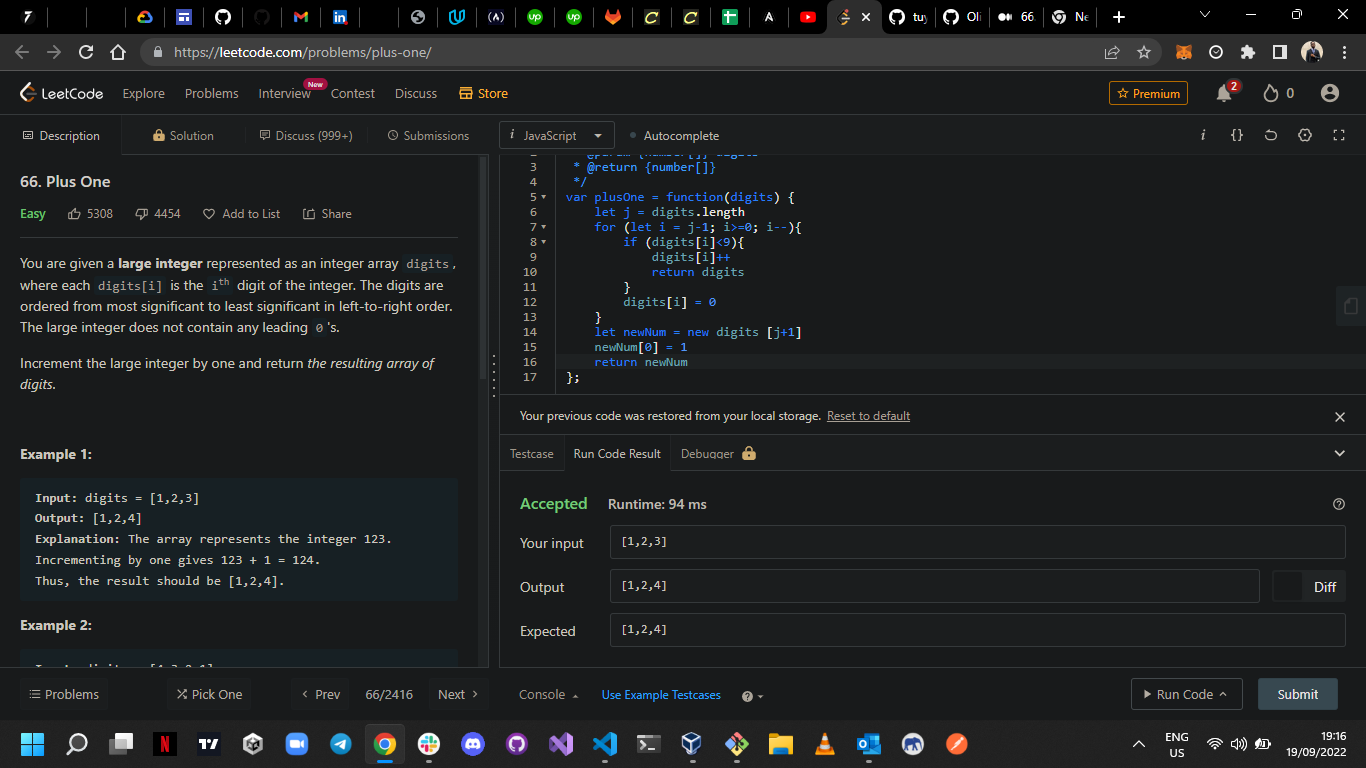
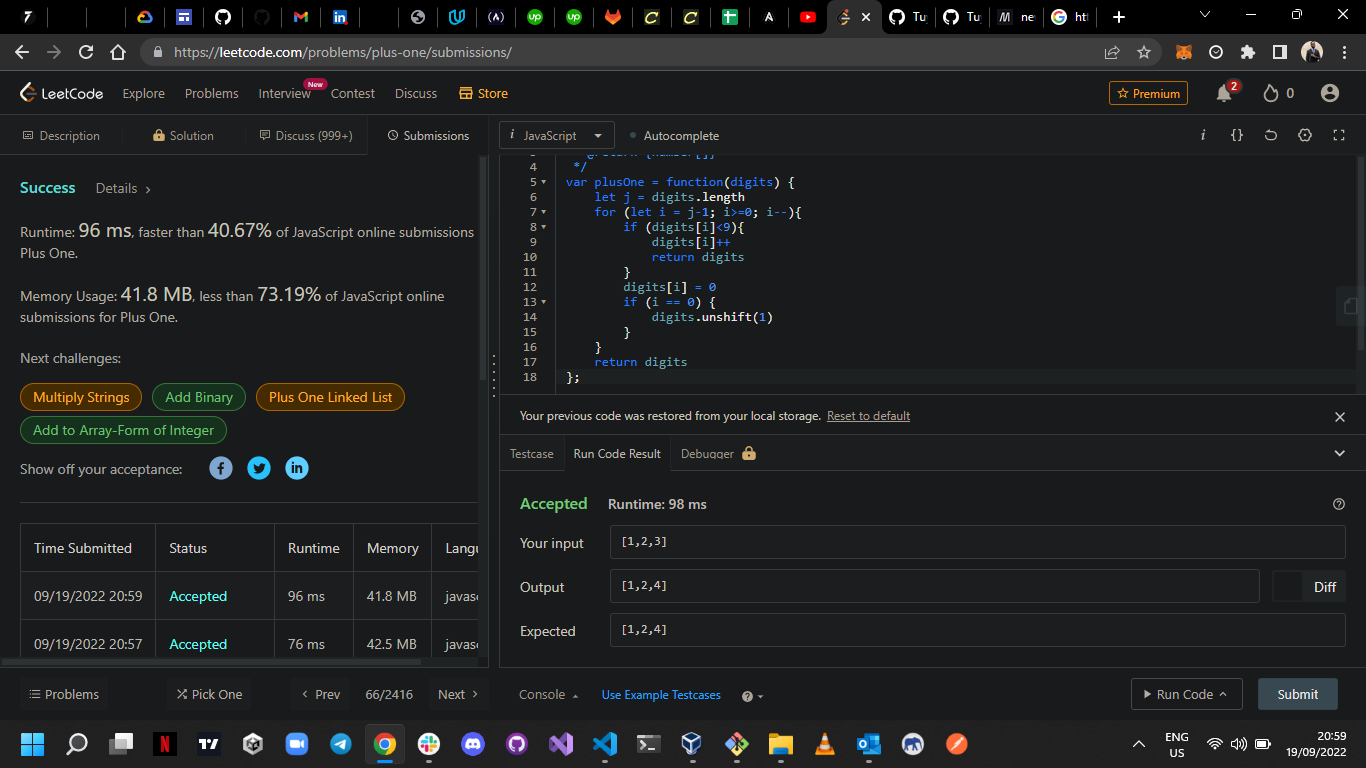
solution to plusOne algorithm

diff --git a/Tuyo/Day5/plusOne.js b/Tuyo/Day5/plusOne.js
@@ -30,14 +30,10 @@ var plusOne = function (digits) {
 
         // if the number is larger than 9, set it to zero
         digits[i] = 0
+        
+        if (i == 0) {
+            digits.unshift(1)
+        }
     }
-
-    // /*
-    // create a variable newNum and increase the size of the array by 1
-    // and also assign 1 to the 0th index, if the number is larger than
-    // 9. Then return the newNum
-    // */
-    // let newNum = new digits[j + 1]
-    // newNum[0] = 1
-    // return newNum
+    return digits
 };
